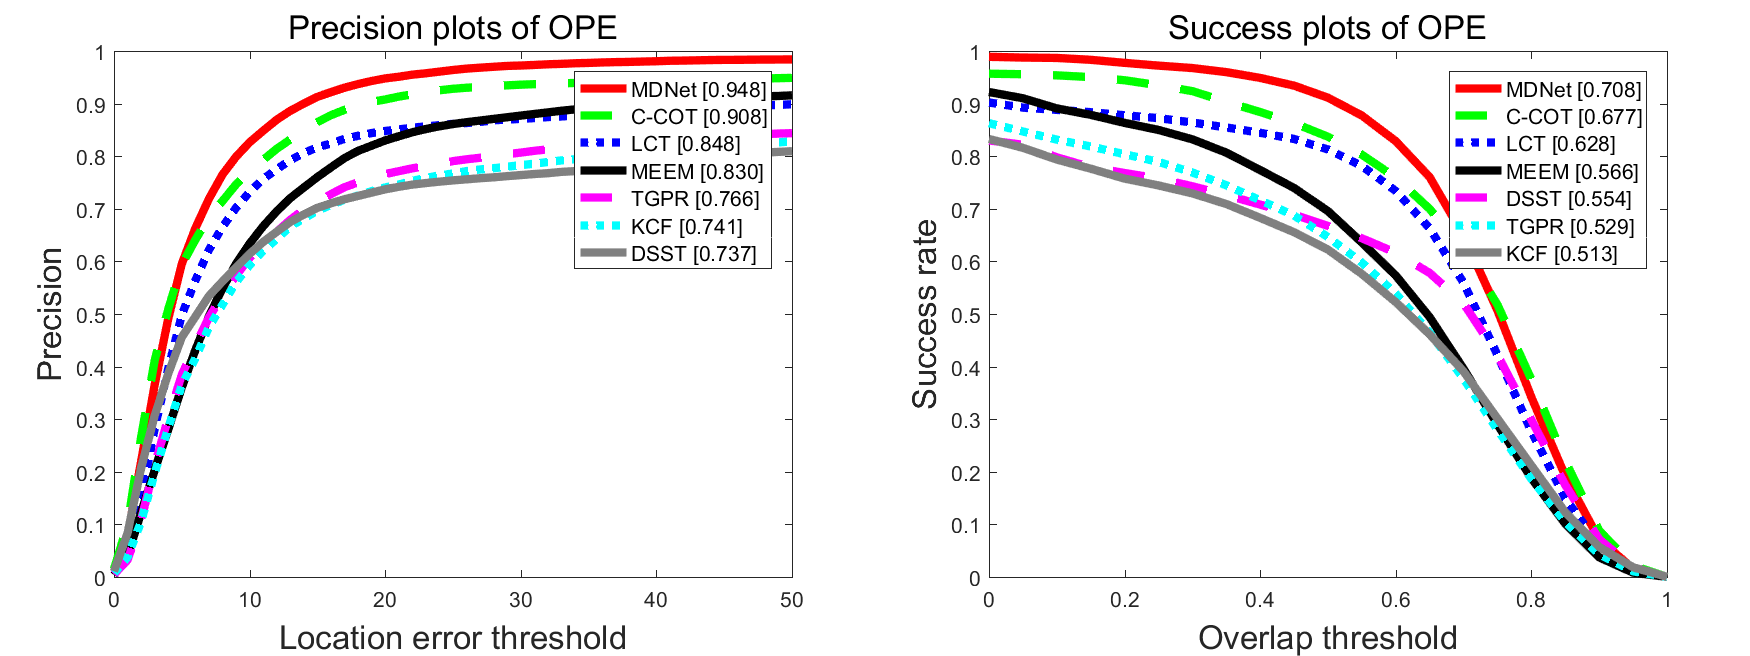
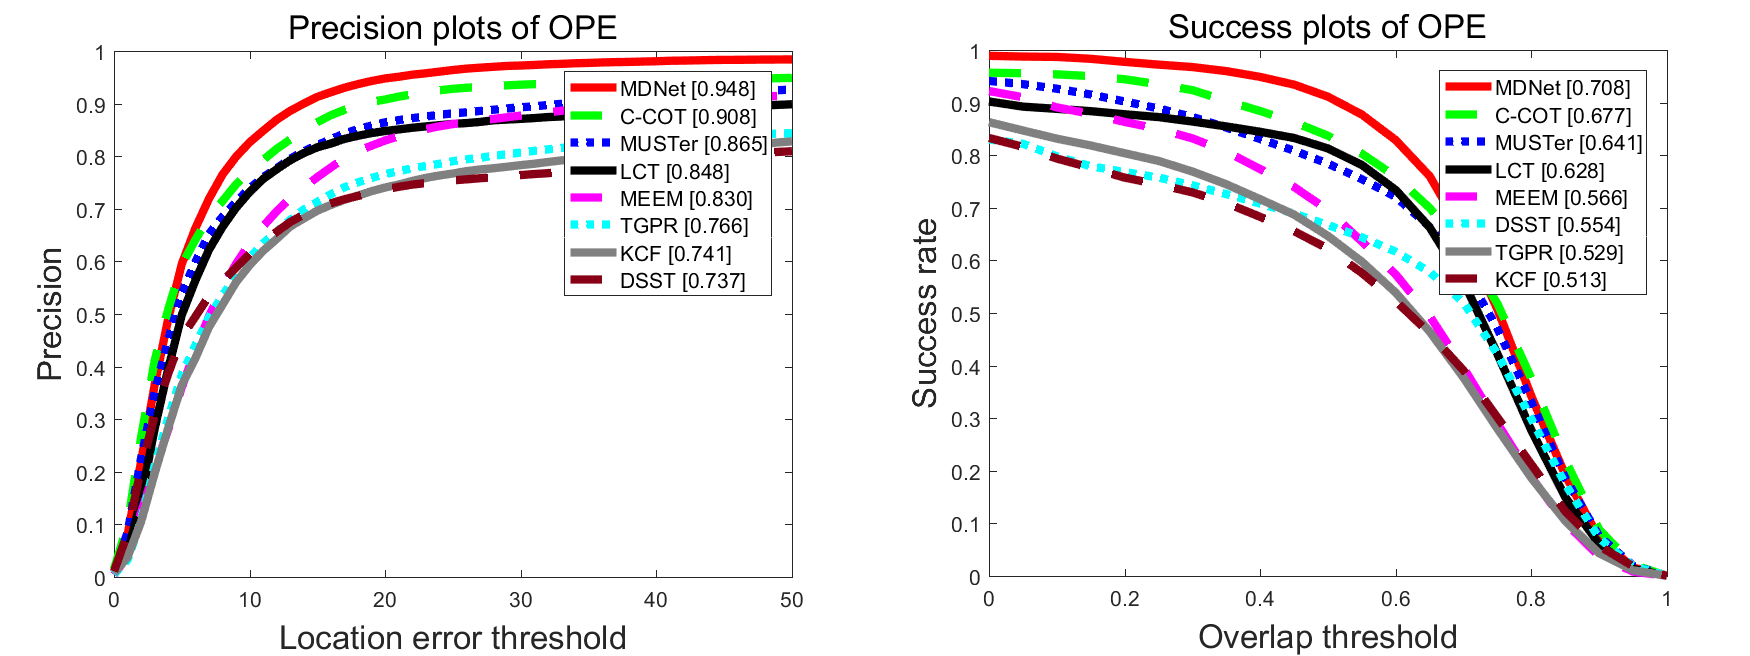
MUSTer

diff --git a/README.md b/README.md
@@ -25,6 +25,11 @@
 [[VOT_presentation](http://votchallenge.net/vot2015/download/presentation_Hyeonseob.pdf)]
 [[project](http://cvlab.postech.ac.kr/research/mdnet/)]
 
+* **MUSTer:**  Zhibin Hong, Zhe Chen, Chaohui Wang, Xue Mei, Danil Prokhorov, and Dacheng Tao. 
+"MUlti-Store Tracker (MUSTer): A cognitive psychology inspired approach to object tracking."  CVPR (2015)
+[[paper](http://www.cv-foundation.org/openaccess/content_cvpr_2015/papers/Hong_MUlti-Store_Tracker_MUSTer_2015_CVPR_paper.pdf)]
+[[project](https://sites.google.com/site/zhibinhong4131/Projects/muster)]
+
 * **LCT:** Chao Ma, Xiaokang Yang, Chongyang Zhang, Ming-Hsuan Yang.
 "Long-term Correlation Tracking." CVPR (2015)
 [[paper](https://drive.google.com/file/d/0B8-i_hZvGyZNMzc5QWtINjhIMU0/view)]
